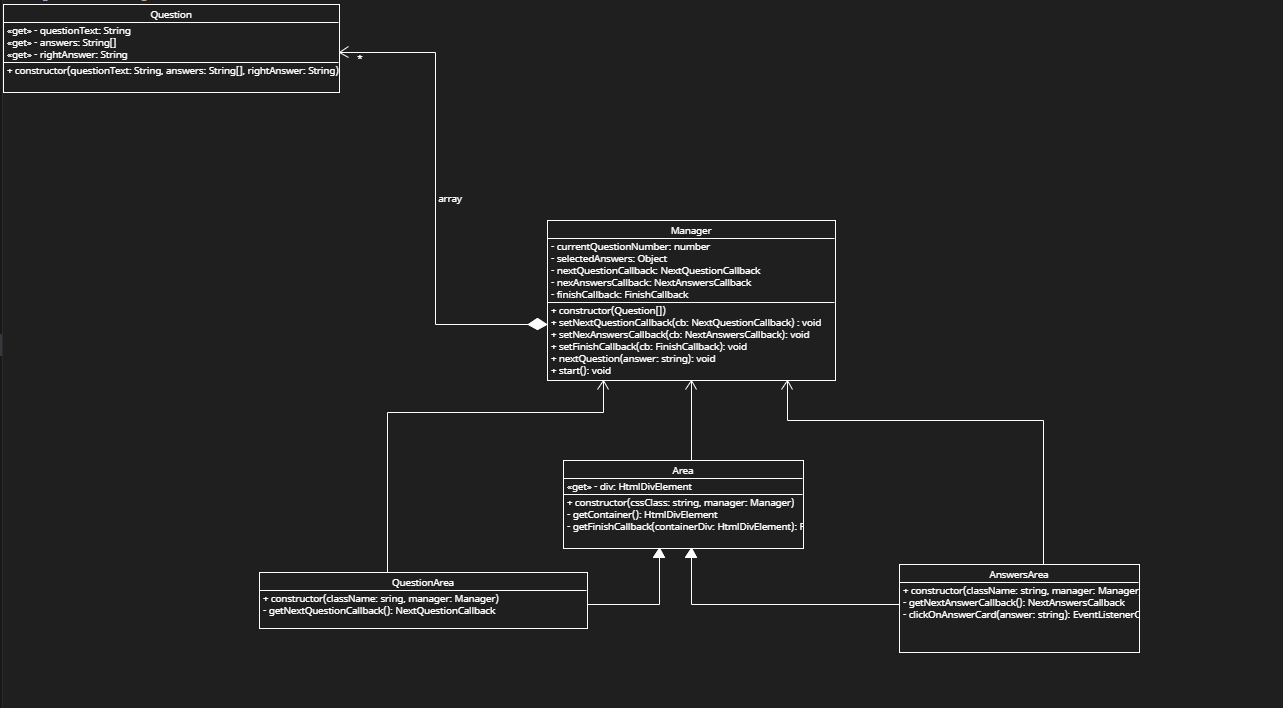
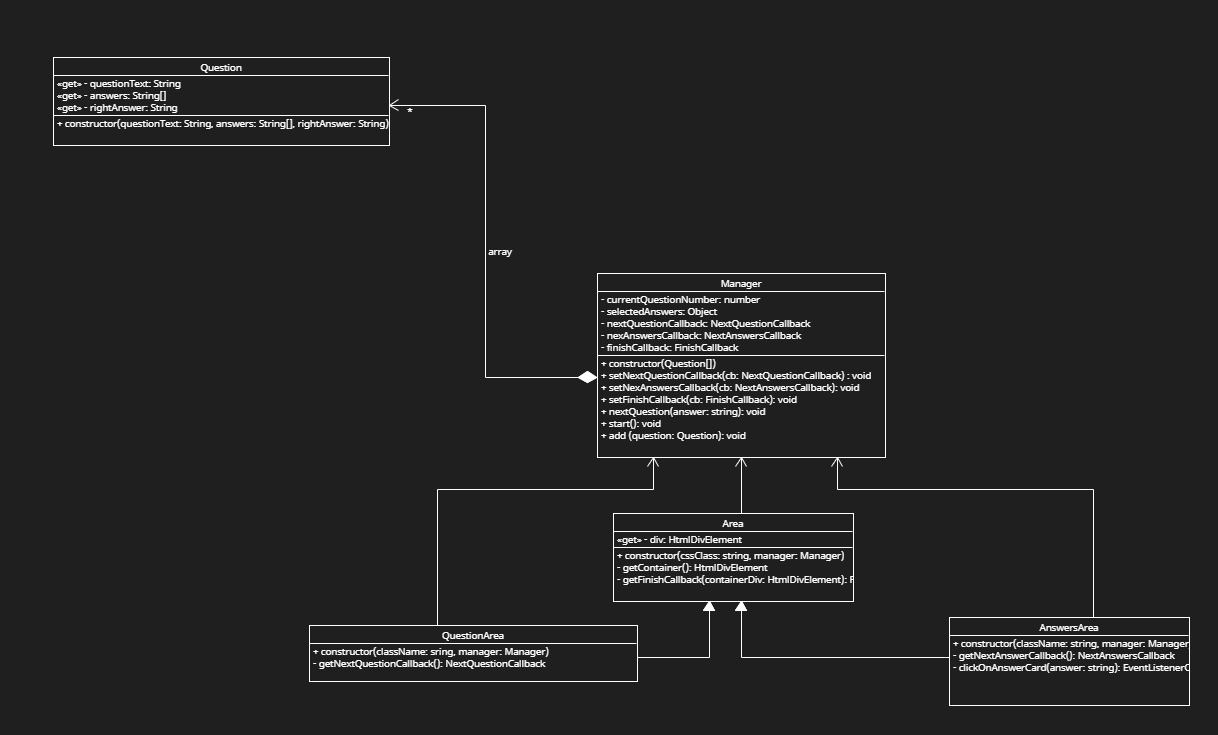
add new function to manager

diff --git a/app/shared/manager.js b/app/shared/manager.js
@@ -29,6 +29,10 @@ class Manager{
         this.#finishCallback = callback;
     }
 
+    add(question){
+        this.#array.push(question);
+    }
+
     nextQuestion(answer){
         this.#selectedAnswer[this.#currentQuestionNumber] = answer;
         this.#currentQuestionNumber++;
